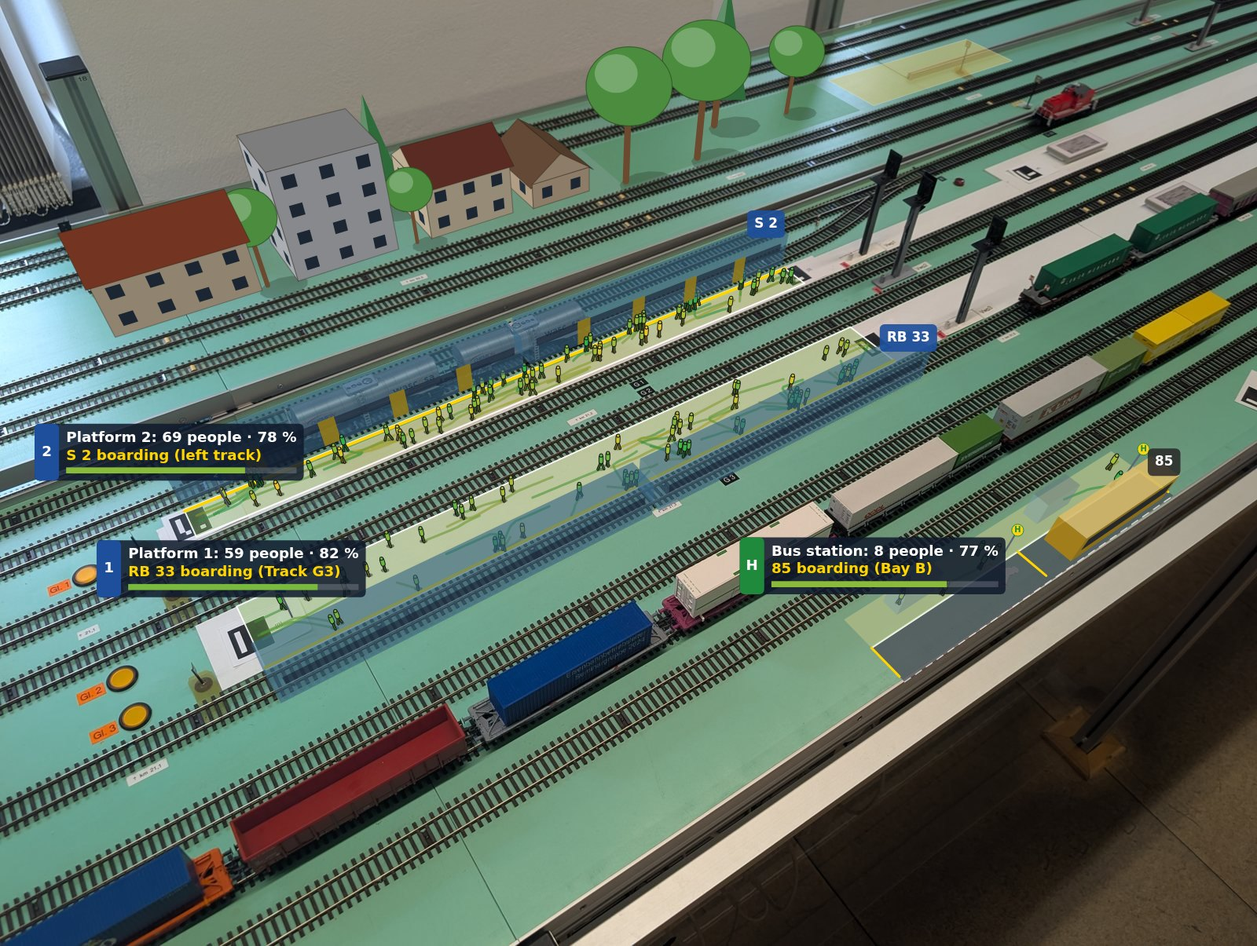
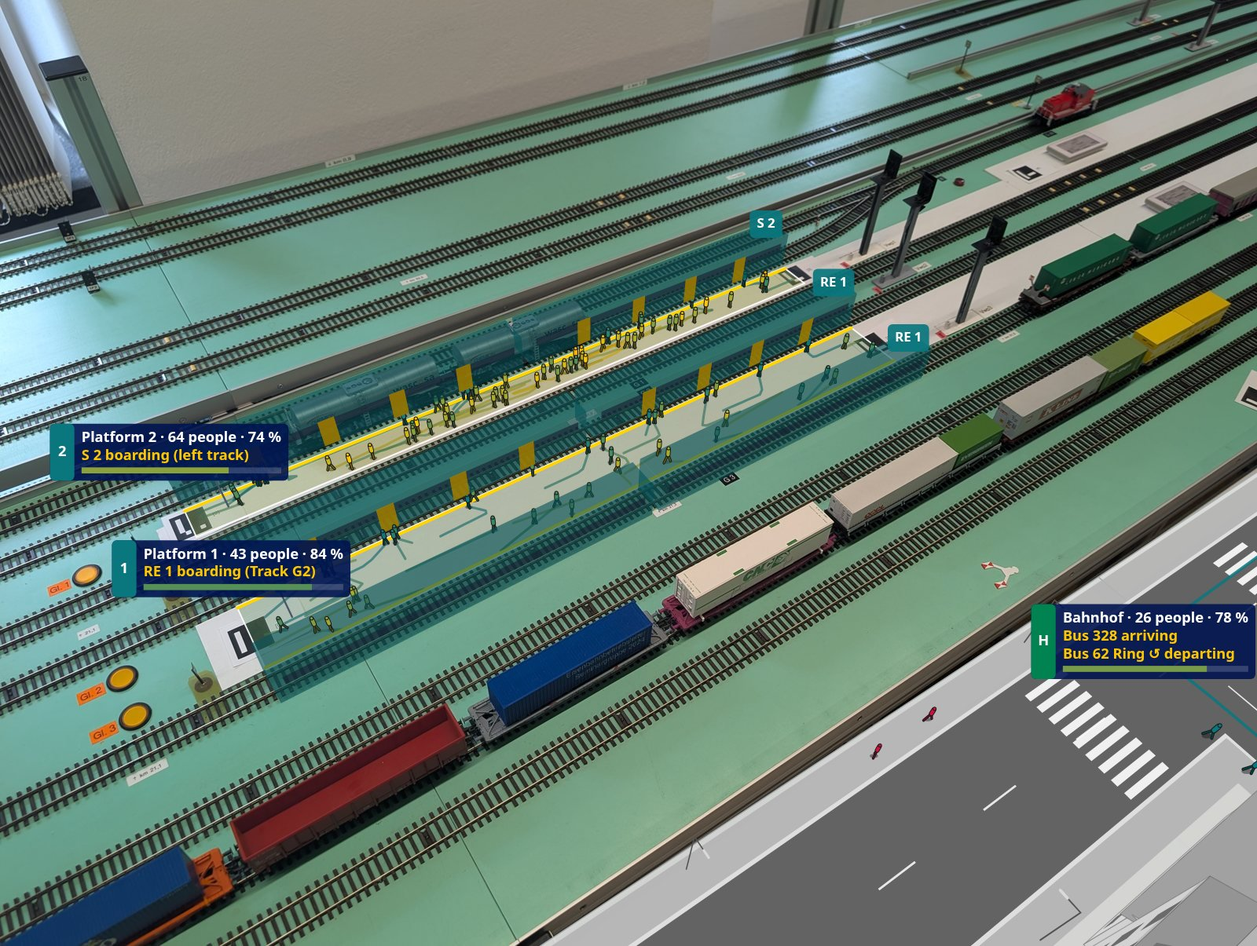
Project page, README and screenshots: the town, streets and buses, day and night, flyover, lab survey
Project page (web/index.html, stays blue):
- Hero lead, meta description and facts mention the town, bus lines and the
  fast clock; the compare slider keeps the plain photo vs the augmented view.
- "What goes on the layout": nine cards (platforms; a small German town;
  streets and bus lines; day and night; flyover and table modules; markers
  surveyed once; disruptions; control system; plugins). Mood colours now
  "from Türkis to red", as in the app.
- New section "A town on the table": the example town in the flyover by day
  and at night (orthophoto of the real table behind it), a bus of line 62 at
  the stop Schule, and "A day in the town" on the fast clock (times from
  sims/town.js and core/clock.js), with links to the day-and-night and
  streets-and-buses guides.
- "How it works" and "Set up your lab" follow the lab session: print sticker
  sheets, stick them on, film, arail-survey (or Survey a video), build in
  the flyover, connect the control system; link to the lab-session guide.
- Status board as of October 2026: what has arrived for the next version,
  the lab session boarding, moving markers and occlusion later.
- Footer: the app's corporate design of the chair; the logo is (c) TU Dresden.

Screenshots, rendered with Playwright against the app (canvas only where
the picture should be clean):
- web/assets/ebl-lab-ar.jpg (1600x1205): the lab photo at 08:10 with trains
  at both platforms, passengers and a street on a table module.
[…]

diff --git a/web/index.html b/web/index.html
@@ -4,9 +4,9 @@
 <meta charset="utf-8">
 <meta name="viewport" content="width=device-width, initial-scale=1, viewport-fit=cover">
 <title>ARail-EBL</title>
-<meta name="description" content="Open-source augmented reality for model railway labs: platforms with passengers, bus terminals, scenery, disruptions and a control-system interface, in the browser.">
+<meta name="description" content="Open-source augmented reality for model railway labs: platforms with passengers, a small town with streets and bus lines through day and night, a flyover for building on a grid, disruptions and a control-system interface, in the browser.">
 <meta property="og:title" content="ARail-EBL">
-<meta property="og:description" content="Augmented reality for model railway labs, in the browser.">
+<meta property="og:description" content="Augmented reality for model railway labs, in the browser: trains, passengers, a town with buses, day and night.">
 <meta property="og:image" content="assets/ebl-lab-ar.jpg">
 <link rel="icon" href="assets/favicon.svg" type="image/svg+xml">
 <link rel="preconnect" href="https://fonts.googleapis.com">
@@ -109,6 +109,20 @@ section { padding-block: 64px; }
 .feature .sym svg { width: 26px; height: 26px; }
 .feature p { color: var(--ink-2); font-size: .96rem; }
 .feature code { font-family: var(--mono); font-size: .82em; }
+kbd { font: 600 .82em/1 var(--mono); padding: 2px 5px; border: 1px solid var(--line); border-bottom-width: 2px; border-radius: 4px; background: var(--bg); color: var(--ink); }
+
+/* the town: screenshots from the flyover and a day on the fast clock */
+.gallery { display: grid; gap: 16px; }
+@media (min-width: 820px) { .gallery { grid-template-columns: repeat(2, minmax(0, 1fr)); align-items: start; } }
+.shot { margin: 0; background: var(--surface); border: 1px solid var(--line); border-radius: 8px; overflow: hidden; }
+.shot img { width: 100%; height: auto; }
+.shot figcaption { padding: 12px 16px 16px; color: var(--ink-2); font-size: .94rem; }
+.shot figcaption b { color: var(--ink); }
+.day { background: var(--surface); border: 1px solid var(--line); border-radius: 8px; padding: 20px; display: grid; gap: 12px; align-content: start; }
+.times { list-style: none; margin: 0; padding: 0; display: grid; gap: 8px; }
+.times li { display: grid; grid-template-columns: 3.4rem minmax(0, 1fr); gap: 12px; align-items: baseline; }
+.times time { font-family: var(--mono); font-size: .85rem; font-weight: 600; color: var(--accent-text); }
+.times span, .day p { color: var(--ink-2); font-size: .94rem; }
 
 .pipeline { display: grid; gap: 0; grid-template-columns: repeat(auto-fit, minmax(170px, 1fr)); border: 1px solid var(--line); border-radius: 8px; overflow: hidden; background: var(--surface); }
 .pipeline div { padding: 18px 18px 20px; border-right: 1px solid var(--line); display: grid; gap: 6px; align-content: start; }
@@ -172,16 +186,16 @@ footer a { color: inherit; }
       <div>
         <p class="eyebrow">Open source · runs in the browser</p>
         <h1 id="intro">Augmented reality for <em>model railway labs</em></h1>
-        <p class="lead">Point a phone or a webcam at your layout. ARail puts platforms full of passengers, bus terminals, houses and trees on it, simulates delays and closures, and shows the trains your control system reports.</p>
+        <p class="lead">Point a phone or a webcam at your layout. ARail puts platforms full of passengers and a small town with streets and bus lines on it, runs the town through day and night, simulates delays and closures, and shows the trains your control system reports.</p>
         <div class="ctas">
           <a class="btn primary" href="app/">Open the app</a>
           <a class="btn ghost" href="markers/">Print markers</a>
           <a class="btn ghost" href="https://github.com/joernmht/ARail-EBL">Source on GitHub</a>
         </div>
-        <p class="facts"><span>H0 · TT · N · any scale</span><span>ArUco &amp; AprilTag markers</span><span>No install, no calibration board</span></p>
+        <p class="facts"><span>H0 · TT · N · any scale</span><span>ArUco &amp; AprilTag markers</span><span>No install, no calibration board</span><span>Fast clock, day and night</span></p>
       </div>
       <figure class="compare" id="compare">
-        <img src="assets/ebl-lab-ar.jpg" alt="The lab table in ARail: two platforms with waiting passengers and trains, a bus station with a bus, houses, trees and a field." width="1600" height="1205">
+        <img src="assets/ebl-lab-ar.jpg" alt="The lab table in ARail: trains at both platforms with waiting passengers, boards with the next departures, and a street with a zebra crossing on a virtual table module beyond the front edge of the table." width="1600" height="1205">
         <img class="before" src="media/ebl-lab.jpg" alt="The same model railway table as a plain photo." width="1600" height="1205">
         <input type="range" id="compareRange" min="0" max="100" value="55" aria-label="Slide between the plain photo and the augmented view">
         <span class="divider" aria-hidden="true"></span>
@@ -202,22 +216,37 @@ footer a { color: inherit; }
         <article class="feature">
           <div class="sym" aria-hidden="true"><svg viewBox="0 0 24 24" fill="none" stroke="currentColor" stroke-width="2"><path d="M3 17h18M5 13h14M8 13V7h8v6M6 17l-1 3M18 17l1 3"/></svg></div>
           <h3>Platforms with passengers</h3>
-          <p>Lay a platform between two markers. Passengers arrive, wait at the edge, board and alight through the doors. Their colour shows their mood, from green to red.</p>
+          <p>Lay a platform between two markers. Passengers arrive, wait where their train stops, board and alight through the doors. Their colour shows their mood, from Türkis to red.</p>
+        </article>
+        <article class="feature">
+          <div class="sym" aria-hidden="true"><svg viewBox="0 0 24 24" fill="none" stroke="currentColor" stroke-width="2"><path d="M3 21V10l5-3v14M8 21V3h11v18M2 21h20"/><path d="M11.5 7h4M11.5 11h4M11.5 15h4"/></svg></div>
+          <h3>A small German town</h3>
+          <p>Plattenbau (WBS&nbsp;70, QP&nbsp;61, P2), Gründerzeit blocks, an estate of single-family houses, a school, a supermarket, offices and a workshop, in the greys of an architectural model. Trees, fields and water around them.</p>
         </article>
         <article class="feature">
           <div class="sym" aria-hidden="true"><svg viewBox="0 0 24 24" fill="none" stroke="currentColor" stroke-width="2"><rect x="4" y="4" width="16" height="13" rx="2"/><path d="M4 11h16M7 20v-3M17 20v-3"/></svg></div>
-          <h3>Bus terminals</h3>
-          <p>Bays along a bus lane, shelters and stop signs. Buses come on a timetable, or more often when a rail replacement service is running.</p>
+          <h3>Streets and bus lines</h3>
+          <p>Streets form a network with sidewalks, crossings and street lamps. Bus lines run along them from stop to stop, back and forth or round a ring (Ring&nbsp;↻, Ring&nbsp;↺), also from bus terminals; cars come and go at the edges.</p>
         </article>
         <article class="feature">
-          <div class="sym" aria-hidden="true"><svg viewBox="0 0 24 24" fill="none" stroke="currentColor" stroke-width="2"><path d="M3 11l6-5 6 5v9H3zM15 20h6v-7l-3-3"/><path d="M7 20v-4h4v4"/></svg></div>
-          <h3>Houses and landscape</h3>
-          <p>Buildings with floors and roofs, single trees and forests, fields, water and roads. Tap to place them, drag to move them.</p>
+          <div class="sym" aria-hidden="true"><svg viewBox="0 0 24 24" fill="none" stroke="currentColor" stroke-width="2"><path d="M20 14.5A8.5 8.5 0 1 1 9.5 4 6.5 6.5 0 0 0 20 14.5z"/></svg></div>
+          <h3>Day and night</h3>
+          <p>A fast clock runs the town: residents walk, take the bus or the train to work, school and shopping, and come home. Rush hours in the morning and evening; at night windows and street lamps light up.</p>
+        </article>
+        <article class="feature">
+          <div class="sym" aria-hidden="true"><svg viewBox="0 0 24 24" fill="none" stroke="currentColor" stroke-width="2"><path d="M7 7h10l4 12H3z"/><path d="M12 7v12M5.3 13h13.4M9.5 7l-2 12M14.5 7l2 12"/></svg></div>
+          <h3>Flyover and table modules</h3>
+          <p>Press <kbd>F</kbd> to fly a virtual camera over the layout, without the camera image. Build on a snapping grid next to the orthophoto of the real table, and add virtual table modules beyond its edges.</p>
+        </article>
+        <article class="feature">
+          <div class="sym" aria-hidden="true"><svg viewBox="0 0 24 24" fill="none" stroke="currentColor" stroke-width="2"><rect x="4" y="4" width="16" height="16" rx="1"/><path d="M8 8h3v3H8zM13 13h3v3h-3zM13 8h3M8 16h3"/></svg></div>
+          <h3>Markers, surveyed once</h3>
+          <p>Stick markers over the whole table and film it: <code>arail-survey</code> measures every marker and writes a fixed, locked layout with an orthophoto. Markers on wagons can be set as moving and stay out of the map.</p>
         </article>
         <article class="feature">
           <div class="sym" aria-hidden="true"><svg viewBox="0 0 24 24" fill="none" stroke="currentColor" stroke-width="2"><path d="M12 3l10 18H2z"/><path d="M12 10v4M12 17v.5"/></svg></div>
           <h3>Disruptions and scenarios</h3>
-          <p>Delays, cancellations, closures, signal failures, crowd surges and replacement buses, started by hand or scripted as scenarios for teaching.</p>
+          <p>Delays, cancellations, closures, signal failures, crowd surges and replacement buses, at platforms and bus stops, started by hand or scripted as scenarios for teaching.</p>
         </article>
         <article class="feature">
           <div class="sym" aria-hidden="true"><svg viewBox="0 0 24 24" fill="none" stroke="currentColor" stroke-width="2"><rect x="3" y="4" width="18" height="12" rx="1"/><path d="M8 20h8M12 16v4M7 10h3l2-3 2 6 2-3h1"/></svg></div>
@@ -233,6 +262,42 @@ footer a { color: inherit; }
     </div>
   </section>
 
+  <section id="town" style="padding-top: 0">
+    <div class="wrap">
+      <div class="section-head">
+        <h2>A town on the table</h2>
+        <p class="lead">The example layout extends the lab table with eight virtual table modules: a town with two ring bus lines, a station, fields and a wood. Seen here in the flyover, with the orthophoto of the real table behind it.</p>
+      </div>
+      <div class="gallery">
+        <figure class="shot">
+          <img src="assets/town-day.jpg" width="1280" height="800" loading="lazy" decoding="async" alt="Flyover of the example layout by day: a grey town with Gründerzeit blocks, a WBS 70 Plattenbau, a school with a sports field, an office building, an estate of single-family houses, a supermarket, a workshop and fields on table modules in front of the lab table, which shows its orthophoto. Yellow buses stand at the stops.">
+          <figcaption><b>08:10, by day.</b> The town on its table modules in front of the real table. People walk to work and school; the buses of lines 62 and 85 serve the stops.</figcaption>
+        </figure>
+        <figure class="shot">
+          <img src="assets/town-night.jpg" width="1280" height="800" loading="lazy" decoding="async" alt="The same view at 21:30: the town lies in dark blue; lit windows, street lamps and the lights of a bus glow.">
+          <figcaption><b>21:30, the same view at night.</b> Windows light up where people are at home; street lamps, buses and cars switch on their lights.</figcaption>
+        </figure>
+        <figure class="shot">
+          <img src="assets/bus-stop.jpg" width="1200" height="750" loading="lazy" decoding="async" alt="Close-up of a yellow bus of line 62 at the stop Schule: people stand at its doors, the board above the stop reads Schule, 35 people, 70 %, Bus 62 Ring counter-clockwise boarding, Bus 85 Ring clockwise in 2 min.">
+          <figcaption><b>Line 62 at the stop Schule.</b> People get off and on at the doors; the board shows the next bus of each line.</figcaption>
+        </figure>
+        <article class="day" aria-labelledby="day-title">
+          <h3 id="day-title">A day in the town</h3>
+          <ol class="times">
+            <li><time datetime="05:45">05:45</time><span>Commuters walk or take the bus to the station and leave by train.</span></li>
+            <li><time datetime="06:30">06:30</time><span>Rush hour: workers head for the offices, the workshop, the shops and the school; visitors arrive by train.</span></li>
+            <li><time datetime="07:00">07:00</time><span>Pupils go to school, the supermarket opens, seniors go shopping later in the morning.</span></li>
+            <li><time datetime="12:30">12:30</time><span>School is out for the first pupils.</span></li>
+            <li><time datetime="15:30">15:30</time><span>Work ends, some go shopping on the way home; from 16:00 the commuters come back by train.</span></li>
+            <li><time datetime="20:30">20:30</time><span>Sunset: lit windows, street lamps, head and tail lights.</span></li>
+            <li><time datetime="01:00">01:00</time><span>No trains and no buses until 04:30.</span></li>
+          </ol>
+          <p>The clock runs twelve times faster than the trains and people, and can be set and stopped in the Simulate panel. <a href="https://github.com/joernmht/ARail-EBL/blob/main/docs/day-and-night.md">Day and night</a> · <a href="https://github.com/joernmht/ARail-EBL/blob/main/docs/streets-and-buses.md">Streets and bus lines</a></p>
+        </article>
+      </div>
+    </div>
+  </section>
+
   <section id="how" style="padding-top: 0">
     <div class="wrap">
       <div class="section-head">
@@ -240,11 +305,11 @@ footer a { color: inherit; }
         <p class="lead">Printed square markers lie flat on the layout. From the camera image alone, without a calibration board, ARail works out where the layout plane is and draws on it.</p>
       </div>
       <div class="pipeline">
-        <div><b>Markers</b><span>ArUco or AprilTag codes, 30&nbsp;mm, anywhere on the layout, any rotation.</span></div>
-        <div><b>Marker map</b><span>Their positions are surveyed from the images and stored with the layout.</span></div>
-        <div><b>Camera pose</b><span>All visible markers give one stable view of the plane; the focal length is estimated too.</span></div>
-        <div><b>Virtual layout</b><span>Platforms, bus terminals and scenery from a JSON layout file.</span></div>
-        <div><b>Simulation</b><span>Trains, buses, passengers and disruptions, in prototype metres and seconds.</span></div>
+        <div><b>Markers</b><span>ArUco or AprilTag codes, 30&nbsp;mm, stuck anywhere on the layout, any rotation.</span></div>
+        <div><b>Marker map</b><span>Measured from the images as the camera moves, or surveyed once from a video and locked.</span></div>
+        <div><b>Camera pose</b><span>All visible markers give one stable view of the plane; the focal length is estimated too. The flyover uses a virtual camera instead.</span></div>
+        <div><b>Virtual layout</b><span>Platforms, a town, streets and bus lines from a JSON layout file, also on table modules beyond the real table.</span></div>
+        <div><b>Simulation</b><span>Trains, buses, cars, passengers and residents on a fast clock, in prototype metres and seconds.</span></div>
       </div>
     </div>
   </section>
@@ -253,14 +318,15 @@ footer a { color: inherit; }
     <div class="wrap split">
       <div class="section-head">
         <h2>Set up your lab</h2>
-        <p class="lead">The first four steps take an afternoon. The control system can follow later.</p>
+        <p class="lead">One visit to the lab gives a fixed layout; the <a href="https://github.com/joernmht/ARail-EBL/blob/main/docs/lab-session.md">lab-session guide</a> has the checklist. The control system can follow later.</p>
       </div>
       <ol class="steps">
-        <li><span class="num">1</span><div><h3>Print markers</h3><p>Use the <a href="markers/">marker sheets</a> and check the 100&nbsp;mm bar with a ruler. The black square is the marker size.</p></div></li>
-        <li><span class="num">2</span><div><h3>Lay them out</h3><p>One marker at each end of every platform, more across the layout. Wherever the camera looks, one or two should be in view.</p></div></li>
-        <li><span class="num">3</span><div><h3>Open the app</h3><p>Take a photo, record a video or start the live camera. Unknown markers are measured automatically when they are seen next to known ones.</p></div></li>
-        <li><span class="num">4</span><div><h3>Build and export</h3><p>Add platforms, a bus terminal and scenery in the Build panel, then export the layout file and keep it in your fork.</p></div></li>
-        <li><span class="num">5</span><div><h3>Connect the control system</h3><p>Run <code>arail-bridge</code> next to it with an adapter for your system. The simulated control system shows the flow without one.</p></div></li>
+        <li><span class="num">1</span><div><h3>Print sticker sheets</h3><p>Print the <a href="markers/">marker sheets</a> on matte sticker paper and check the 100&nbsp;mm bar with a ruler. The black square is the marker size.</p></div></li>
+        <li><span class="num">2</span><div><h3>Stick them on</h3><p>Marker 0 at a table corner, aligned with the edges, then one every 30–40&nbsp;cm, at both ends of every platform and at the table corners.</p></div></li>
+        <li><span class="num">3</span><div><h3>Film the layout</h3><p>Slow passes along and across the table with the phone's main camera, tilted 40–60°, two or three markers always in view: two to five minutes of video.</p></div></li>
+        <li><span class="num">4</span><div><h3>Survey it</h3><p><code>arail-survey</code> measures every marker and writes a fixed, locked layout, a report and an orthophoto of the table. For a quick check in the lab: Build → Marker map → Survey a video.</p></div></li>
+        <li><span class="num">5</span><div><h3>Build in the flyover</h3><p>Press <kbd>F</kbd>: the orthophoto lies on the table. Add table modules beyond its edges, platforms, streets, bus lines and houses on the grid, then export the layout file and keep it in your fork.</p></div></li>
+        <li><span class="num">6</span><div><h3>Connect the control system</h3><p>Run <code>arail-bridge</code> next to it with an adapter for your system. The simulated control system shows the flow without one.</p></div></li>
       </ol>
     </div>
   </section>
@@ -300,7 +366,7 @@ footer a { color: inherit; }
   <section id="status" style="padding-top: 0">
     <div class="wrap">
       <div class="departures">
-        <header><h3>Departures · project status</h3><span>as of September 2026</span></header>
+        <header><h3>Departures · project status</h3><span>as of October 2026</span></header>
         <div class="table-wrap" tabindex="0" role="region" aria-label="Project status">
           <table>
             <thead><tr><th>Version</th><th>Destination</th><th>Status</th></tr></thead>
@@ -308,9 +374,14 @@ footer a { color: inherit; }
               <tr><td>0.1</td><td class="dest">Tracking without a calibration board<small>Marker map survey, focal length estimate, tested on the lab photo</small></td><td><span class="pill arrived">Arrived</span></td></tr>
               <tr><td>0.1</td><td class="dest">Platforms, bus terminals, scenery, editor<small>Layout files, plugins, passenger simulation</small></td><td><span class="pill arrived">Arrived</span></td></tr>
               <tr><td>0.1</td><td class="dest">Disruptions, scenarios, control-system bridge<small>Simulated, replayed and TCP JSON feeds</small></td><td><span class="pill arrived">Arrived</span></td></tr>
-              <tr><td>next</td><td class="dest">Live sessions in the EBL<small>Phones, webcams and a projector on the real layout</small></td><td><span class="pill boarding">Boarding</span></td></tr>
+              <tr><td>next</td><td class="dest">A town through day and night<small>German house types, fast clock, residents on foot, by bus and by train</small></td><td><span class="pill arrived">Arrived</span></td></tr>
+              <tr><td>next</td><td class="dest">Streets, bus lines and road traffic<small>Road network, bus stops, ring and back-and-forth lines, cars</small></td><td><span class="pill arrived">Arrived</span></td></tr>
+              <tr><td>next</td><td class="dest">Flyover and table modules<small>Virtual camera, snapping grid, orthophoto of the real table</small></td><td><span class="pill arrived">Arrived</span></td></tr>
+              <tr><td>next</td><td class="dest">A fixed layout from one video<small><code>arail-survey</code>: locked marker map, report and orthophoto; Survey a video in the app</small></td><td><span class="pill arrived">Arrived</span></td></tr>
+              <tr><td>next</td><td class="dest">The app in the chair's corporate design<small>Türkis, Noto Sans and the logo of the Chair of Railway Operations</small></td><td><span class="pill arrived">Arrived</span></td></tr>
+              <tr><td>next</td><td class="dest">Lab session and live sessions in the EBL<small>Stickers on the whole table, one video, a fixed layout; then phones, webcams and a projector</small></td><td><span class="pill boarding">Boarding</span></td></tr>
               <tr><td>next</td><td class="dest">Adapter for the EBL control system<small>Real train positions instead of the simulator</small></td><td><span class="pill planned">Scheduled</span></td></tr>
-              <tr><td>later</td><td class="dest">Occlusion by real trains, more vehicle types<small>Ideas and contributions welcome</small></td><td><span class="pill planned">Scheduled</span></td></tr>
+              <tr><td>later</td><td class="dest">Virtual loads on moving markers, occlusion by real trains<small>Moving markers are already kept out of the map and tracked; ideas and contributions welcome</small></td><td><span class="pill planned">Scheduled</span></td></tr>
             </tbody>
           </table>
         </div>
@@ -322,6 +393,7 @@ footer a { color: inherit; }
 <footer>
   <div class="wrap">
     <p>ARail-EBL is open source under the MIT license. Marker detection uses <a href="https://github.com/damianofalcioni/js-aruco2">js-aruco2</a>; the tools use <a href="https://opencv.org">OpenCV</a>.</p>
+    <p>The app follows the corporate design of the Chair of Railway Operations at TU Dresden. The chair's logo is © TU Dresden and not covered by the MIT license (<a href="https://github.com/joernmht/ARail-EBL/blob/main/THIRD_PARTY_NOTICES.md">third-party notices</a>).</p>
     <p><a href="https://github.com/joernmht/ARail-EBL/issues">Report a problem or suggest an idea</a> · <a href="https://github.com/joernmht/ARail-EBL/blob/main/CONTRIBUTING.md">Contributing</a></p>
   </div>
 </footer>

diff --git a/README.md b/README.md
@@ -1,40 +1,46 @@
 # ARail-EBL
 
-**Augmented reality for model railway laboratories.** Point a phone, tablet or webcam at a model railway layout: ARail puts platforms full of passengers, bus terminals, houses and landscape on it, simulates disruptions, and shows the trains your control system reports. It runs in the browser, needs no installation and no calibration board.
+**Augmented reality for model railway laboratories.** Point a phone, tablet or webcam at a model railway layout: ARail puts platforms full of passengers and a small town with streets and bus lines on it, runs the town through day and night, simulates disruptions, and shows the trains your control system reports. A flyover lets you look at and build the layout with a virtual camera. It runs in the browser, needs no installation and no calibration board.
 
 [**Open the app**](https://joernmht.github.io/ARail-EBL/app/) · [Project page](https://joernmht.github.io/ARail-EBL/) · [Print markers](https://joernmht.github.io/ARail-EBL/markers/) · [Documentation](docs/README.md)
 
-![The EBL lab table in ARail: two platforms with passengers and trains, a bus station, houses and trees](web/assets/ebl-lab-ar.jpg)
+![The EBL lab table in ARail: trains at both platforms with waiting passengers, boards with the next departures, and a street on a virtual table module](web/assets/ebl-lab-ar.jpg)
 
-*A photo of the railway operations lab (EBL) layout, augmented by ARail: the virtual objects are registered on the real H0 table from the printed markers alone.*
+*A photo of the railway operations lab (EBL) layout, augmented by ARail: the virtual objects are registered on the real H0 table from the printed markers alone. At the front right, a virtual table module with a street extends the table.*
 
-ARail-EBL started as a prototype for the railway operations laboratory (EBL) and is meant for other railway labs, model railway clubs and teaching as well. The passenger simulation is an example; the framework is built so that you can add your own objects, simulations and disruption types.
+ARail-EBL started as a prototype for the railway operations laboratory (EBL) and is meant for other railway labs, model railway clubs and teaching as well. The passenger and town simulations are examples; the framework is built so that you can add your own objects, simulations and disruption types.
 
 ## What it does
 
 | | |
 | --- | --- |
 | **Platforms with passengers** | A platform between two markers. Passengers arrive, wait at the edge where their train stops, board and alight through the doors; their colour shows their mood. |
-| **Bus terminals** | Waiting area, bus bays along a bus lane, shelters and stop signs; buses on a timetable. |
-| **Houses and landscape** | Buildings (floors, flat or gable roof), trees, forests, fields, water, roads, labels. Tap to place, drag to move. |
+| **A town, day and night** | German house types in the greys of an architectural model: Plattenbau (WBS 70, QP 61, P2), Gründerzeit blocks, single-family houses and estates, school, supermarket, office, workshop; trees, forests, fields, water, labels. A fast clock (1:12) drives the lighting, the timetables and the residents, who go to work, school and shopping on foot, by bus and by train; at night windows and street lamps light up. |
+| **Streets and buses** | Streets form a road network with sidewalks, crossings and street lamps. Bus stops, bus terminals and bus lines with several stops, back and forth or as a ring (*Ring ↻*, *Ring ↺*); road traffic. |
+| **Flyover and table modules** | A virtual camera (key `F`) to look at and edit the layout without the camera image: a snapping grid, the orthophoto of the real table, and virtual table modules that extend the tabletop. |
+| **Lab survey** | Stickers all over the table, one video: `arail-survey` measures every marker and writes a fixed, locked layout, a report and an orthophoto of the table; in the app, *Build → Marker map → Survey a video* gives a quick check. Markers on vehicles can be set as moving; they stay out of the map. |
 | **Disruptions and scenarios** | Delays, cancellations, closures, signal failures, crowd surges, rail replacement buses; scripted scenarios for exercises. |
 | **Control-system interface** | A Python bridge forwards real train positions over WebSocket. When a real train stops at a platform, the virtual passengers board it. |
 | **Extensible** | Plugins (plain ES modules) add object types, simulations, disruption types and vehicles. Settings forms are generated automatically. |
 
-Under the hood: square markers ([ArUco or AprilTag](docs/lab-setup.md#markers)) lie flat on the layout. From the images alone, ARail surveys where the markers are, computes the camera pose from all visible markers and estimates the camera's focal length. On the lab photo above, the estimated focal length (1110 px) agrees with the value derived from the photo's metadata (1111 px), and the platforms come out at 700.7 mm and 718.4 mm, in line with the prototype's earlier measurement of about 700 and 720 mm.
+![The example town in the flyover: a grey town on virtual table modules in front of the lab table, which shows its orthophoto](web/assets/town-day.jpg)
+
+*The example layout in the flyover: a town on eight virtual table modules in front of the real lab table, which shows its orthophoto.*
+
+Under the hood: square markers ([ArUco or AprilTag](docs/lab-setup.md#markers)) lie flat on the layout. From the images alone, ARail surveys where the markers are, computes the camera pose from all visible markers and estimates the camera's focal length. On the lab photo at the top, the estimated focal length (1110 px) agrees with the value derived from the photo's metadata (1111 px), and the platforms come out at 700.7 mm and 718.4 mm, in line with the prototype's earlier measurement of about 700 and 720 mm.
 
 ## Quick start
 
-**Try it:** open the [app](https://joernmht.github.io/ARail-EBL/app/). It starts with a photo of the lab layout. Use the tabs on the right to add objects (Build), change the simulation (Simulate), start disruptions and scenarios (Disruptions) and connect a control system (Control).
+**Try it:** open the [app](https://joernmht.github.io/ARail-EBL/app/). It starts with a photo of the lab layout. Use the tabs on the right to add objects (Build), change the simulation and the time of day (Simulate), start disruptions and scenarios (Disruptions) and connect a control system (Control). Press **F** (or **Flyover**) to fly over the layout and the example town with a virtual camera, and **Simulate → Night 22:30** to see it at night.
 
 **On your own layout:**
 
 1. Print markers from the [marker sheet page](https://joernmht.github.io/ARail-EBL/markers/) (ArUco Original, 30 mm) and check the scale with a ruler.
 2. Put one marker at each end of every platform and more across the layout, flat and with their white border visible.
 3. Open the app, choose **Layouts… → Example: synthetic layout** as a starting point or import your own layout, then **Take photo** or **Live camera**. The markers are surveyed automatically.
-4. In **Build**, add platforms (tap the two markers at its ends), bus terminals, buildings and scenery. **Export layout** saves the result as a JSON file.
+4. In **Build**, add platforms (tap the two markers at its ends), streets, bus stops and lines, buildings and scenery, in the camera view or in the flyover on the grid. **Export layout** saves the result as a JSON file.
 
-See [Getting started](docs/getting-started.md) and [Setting up a lab](docs/lab-setup.md) for details. The live camera needs https (GitHub Pages) or `localhost`.
+For a fixed layout of a whole table, follow the [lab-session guide](docs/lab-session.md): stickers all over the table, one video, `arail-survey`, then build in the flyover. See [Getting started](docs/getting-started.md) and [Setting up a lab](docs/lab-setup.md) for details. The live camera needs https (GitHub Pages) or `localhost`.
 
 **Connect a control system:** `pip install -e "tools[bridge]"` and run the bridge with the built-in simulator, then press **Connect** in the app's Control panel:
 
@@ -50,6 +56,9 @@ Write an adapter for your system from the template; see [Control-system interfac
 | --- | --- |
 | [Getting started](docs/getting-started.md) | Using the app: sources, panels, keyboard shortcuts |
 | [Setting up a lab](docs/lab-setup.md) | Markers, printing, placement, cameras, the marker map |
+| [Lab session](docs/lab-session.md) | Stickers on the whole layout, one video, `arail-survey`: a fixed layout and an orthophoto |
+| [Day and night](docs/day-and-night.md) | The fast clock, lighting, demand over the day, the town simulation |
+| [Streets, bus lines and road traffic](docs/streets-and-buses.md) | The road network, bus stops, bus lines, cars |
 | [Layout file format](docs/layout-format.md) | The JSON file that describes a layout and all built-in object types |
 | [Disruptions and scenarios](docs/disruptions-and-scenarios.md) | Built-in disruptions, their effects, scripting scenarios |
 | [Control-system interface](docs/control-system-interface.md) | Feed protocol, bridge, adapters, https/wss |
@@ -62,17 +71,21 @@ Write an adapter for your system from the template; see [Control-system interfac
 ```
 web/                  the website (published with GitHub Pages)
   index.html          project page
-  app/                the AR app
+  app/                the AR app, with the flyover and the in-app video survey
   markers/            printable marker sheets
   arail/              the framework (ES modules, no build step)
-    core/             tracking, geometry, world, rendering, services, disruptions, scenarios
-    objects/          built-in object types (platform, bus terminal, building, trees, ...)
-    sims/             example simulation: passengers
+    core/             tracking, geometry, world, rendering, clock, road network, bus lines,
+                      flyover camera, services, disruptions, scenarios
+    objects/          built-in object types (platform, houses, streets, bus stops and lines,
+                      table modules, trees, ...)
+    sims/             simulations: passengers, town (day and night), road traffic
     feeds/            control-system feeds: WebSocket client, simulated control system
   plugins/            example plugins (windmill object, road traffic simulation)
   layouts/            example layout files
+  media/              the lab photo and the orthophotos of the example layouts
+  assets/             logos, icons and the website's images
   vendor/js-aruco2/   marker detection library (MIT)
-tools/                Python tools: control-system bridge, calibration, synthetic test scenes
+tools/                Python tools: control-system bridge, calibration, lab survey, synthetic test scenes
 tests/                JavaScript (node:test), Python (pytest) and browser (Playwright) tests
 docs/                 documentation
 examples/             original photo and video of the lab, a recorded control-system feed
@@ -95,8 +108,8 @@ See [CONTRIBUTING.md](CONTRIBUTING.md). The original German prototype ("Bahnstei
 
 ## Status
 
-Version 0.1. Tested with a synthetic layout, a photo and a handheld video of the lab. Next: live sessions in the lab with phones, webcams and a projector, and an adapter for the lab's control system. Known limits: markers smaller than about 20 px in the image are not found; the camera must always see at least one known marker; virtual objects are always drawn in front of real ones (no occlusion).
+Version 0.1, with unreleased changes on `main` (see [CHANGELOG.md](CHANGELOG.md)): the town with its day and night routine, streets and bus lines, the flyover with table modules, the lab survey and the app in the chair's corporate design. Tested with a synthetic layout, a photo and a handheld video of the lab. Next: a lab session in the EBL (stickers on the whole table, one video, a fixed layout), live sessions with phones, webcams and a projector, and an adapter for the lab's control system. Known limits: markers smaller than about 20 px in the image are not found; the camera must always see at least one known marker; virtual objects are always drawn in front of real ones (no occlusion).
 
 ## License and credits
 
-MIT, see [LICENSE](LICENSE). Marker detection builds on [js-aruco2](https://github.com/damianofalcioni/js-aruco2) (MIT) with dictionaries from OpenCV (BSD-3-Clause) and AprilTag (BSD-2-Clause); see [THIRD_PARTY_NOTICES.md](THIRD_PARTY_NOTICES.md). If you use ARail-EBL in research or teaching, please cite it ([CITATION.cff](CITATION.cff)).
+MIT, see [LICENSE](LICENSE). The app follows the corporate design of the Chair of Railway Operations (Professur für Bahnverkehr, öffentlicher Stadt- und Regionalverkehr), TU Dresden: Türkis, Noto Sans and the chair's logo. The logo is © TU Dresden and not covered by the MIT license. Marker detection builds on [js-aruco2](https://github.com/damianofalcioni/js-aruco2) (MIT) with dictionaries from OpenCV (BSD-3-Clause) and AprilTag (BSD-2-Clause); see [THIRD_PARTY_NOTICES.md](THIRD_PARTY_NOTICES.md). If you use ARail-EBL in research or teaching, please cite it ([CITATION.cff](CITATION.cff)).
